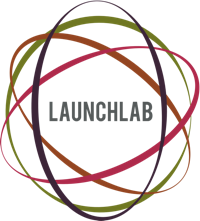
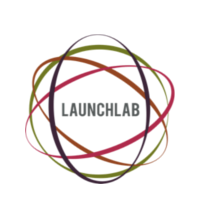
Add principa and resize launchlab

diff --git a/assets/js/main.js b/assets/js/main.js
@@ -245,26 +245,28 @@ INFO = { 'Ntombikayise Banda':
 
 ;
 
-SPONSORS = [ [ './assets/images/sponsors/aerobotics_co.png',
+SPONSORS = [ [ './assets/images/sponsors/deeplearningindaba_com.PNG',
+    'http://www.deeplearningindaba.com' ],
+  [ './assets/images/sponsors/stonethree_com.png',
+    'http://www.stonethree.com' ],
+  [ './assets/images/sponsors/stonethreemining_com.jpg',
+    'http://www.stonethreemining.com' ],
+  [ './assets/images/sponsors/principa_co_za.png',
+    'http://www.principa.co.za' ],
+  [ './assets/images/sponsors/rezco_co_za.png',
+    'http://www.rezco.co.za' ],
+  [ './assets/images/sponsors/aerobotics_co.png',
     'http://www.aerobotics.co' ],
   [ './assets/images/sponsors/cortexlogic_com.png',
     'http://www.cortexlogic.com' ],
-  [ './assets/images/sponsors/deeplearningindaba_com.PNG',
-    'http://www.deeplearningindaba.com' ],
   [ './assets/images/sponsors/launchlab_co_za.png',
     'http://www.launchlab.co.za' ],
   [ './assets/images/sponsors/machineintelligenceafrica_org.png',
     'http://www.machineintelligenceafrica.org' ],
   [ './assets/images/sponsors/numberboost_com.png',
     'http://www.numberboost.com' ],
-  [ './assets/images/sponsors/rezco_co_za.png',
-    'http://www.rezco.co.za' ],
   [ './assets/images/sponsors/stochastic-consulting_com.png',
-    'http://www.stochastic-consulting.com' ],
-  [ './assets/images/sponsors/stonethree_com.png',
-    'http://www.stonethree.com' ],
-  [ './assets/images/sponsors/stonethreemining_com.jpg',
-    'http://www.stonethreemining.com' ] ]
+    'http://www.stochastic-consulting.com' ] ]
 ;
 /*
  * Change Navbar color while scrolling
